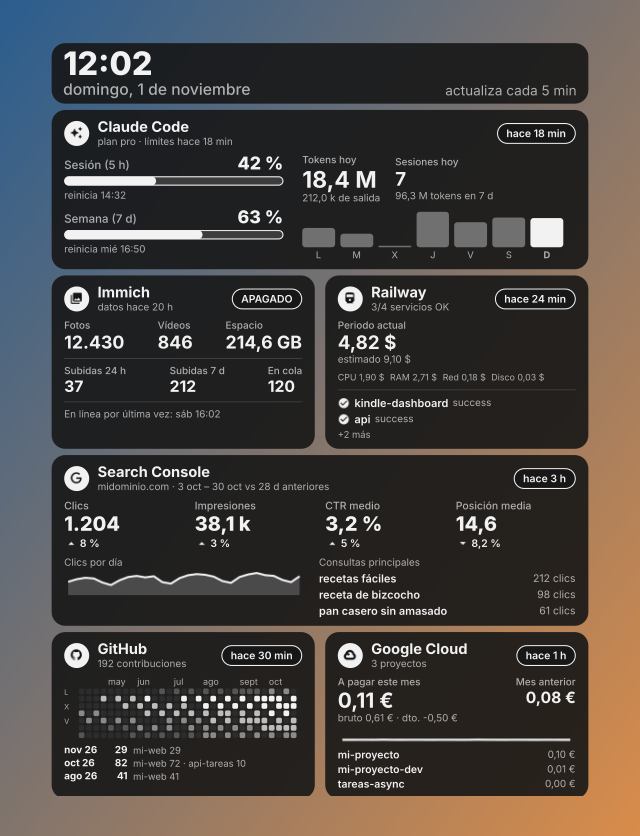
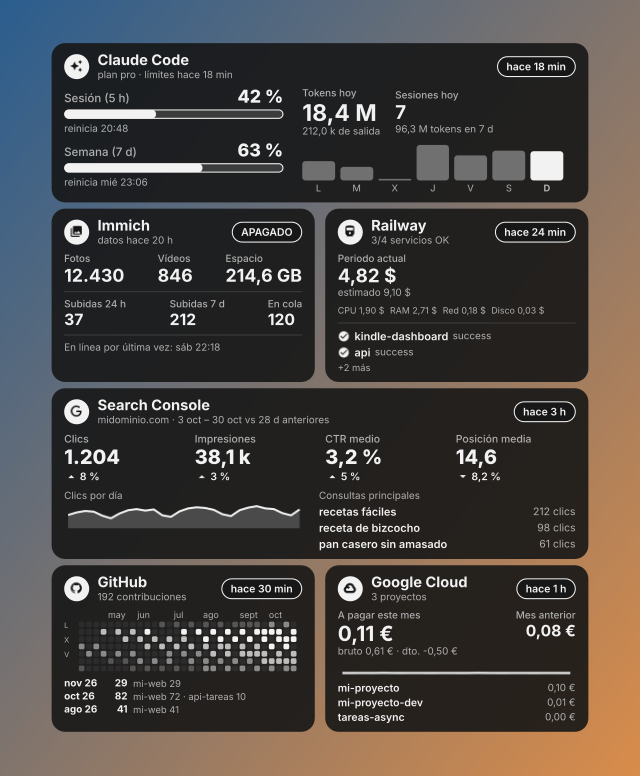
Agregar soporte para múltiples pantallas en el widget de escritorio y actualizar la documentación correspondiente

Changed region(s): [[0.0625, 0.0309, 0.9375, 0.9588], [0.3438, 0.1856, 0.4375, 0.2165]]

diff --git a/docs/widget.html b/docs/widget.html
@@ -68,9 +68,11 @@ blockquote { margin: 1em 0; padding: .2em 1em; border-left: 4px solid var(--acce
   </nav>
   <main><article>
 <h1 id="widget-de-escritorio">Widget de escritorio</h1>
-<p><code>GET /widget.png?key=DASH_KEY&amp;w=700&amp;theme=dark</code> dibuja el dashboard con <strong>fondo transparente</strong> al ancho pedido
-(240–2144 px; el alto sigue la proporción del Kindle), en tema <code>dark</code> (tarjetas oscuras, texto claro) o <code>light</code>
-(tarjetas blancas, texto negro, como el Kindle). Con <code>&amp;page=N</code> se elige la pantalla.</p>
+<p><code>GET /widget.png?key=DASH_KEY&amp;w=700&amp;theme=dark</code> dibuja las tarjetas del dashboard con <strong>fondo transparente</strong> al
+ancho pedido (240–2144 px), en tema <code>dark</code> (tarjetas oscuras, texto claro) o <code>light</code> (tarjetas blancas, texto
+negro, como el Kindle). Con <code>&amp;page=N</code> se elige la pantalla.</p>
+<p>El widget no lleva la cabecera de hora y fecha del Kindle (ya están en la barra de tareas) y su alto es el de las
+tarjetas, sin hueco abajo. Con <code>&amp;header=1</code> vuelve la cabecera y el alto sigue la proporción del Kindle.</p>
 <p><img src="capturas/widget.png" alt="Widget en tema oscuro sobre un fondo de escritorio"></p>
 <p>El skin de <code>Rainmeter/</code> lo descarga cada 5 minutos y lo pinta <strong>en el escritorio</strong>: encima del fondo de Windows y
 debajo de todas las ventanas. Un clic abre <code>/web</code>; el menú del botón derecho tiene «Abrir en el navegador» y
@@ -80,6 +82,14 @@ powershell -ExecutionPolicy Bypass -File Rainmeter\install.ps1 -Width 600 -Monit
 powershell -ExecutionPolicy Bypass -File Rainmeter\install.ps1 -Theme light                                # tema claro, como el Kindle
 </code></pre>
 <p>Sin <code>-ServerUrl</code>, el widget usa <code>http://localhost:3000</code>.</p>
+<h2 id="varias-pantallas-a-la-vez">Varias pantallas a la vez</h2>
+<p><code>-Page</code> elige la pantalla: <code>0</code> las métricas (por defecto) y <code>1</code> la red local. Rainmeter solo carga una piel por
+carpeta, así que cada pantalla se instala en su propia carpeta y se pueden ver juntas: la <code>0</code> en
+<code>Skins\KindleDashboard</code> y la <code>N</code> en <code>Skins\KindleDashboard-Pantalla&lt;N+1&gt;</code>.</p>
+<pre><code class="language-powershell">powershell -ExecutionPolicy Bypass -File Rainmeter\install.ps1 -ServerUrl https://TU-APP.up.railway.app -Page 0 -Align 1   # métricas, a la derecha
+powershell -ExecutionPolicy Bypass -File Rainmeter\install.ps1 -ServerUrl https://TU-APP.up.railway.app -Page 1 -Align 0   # red local, a la izquierda
+</code></pre>
+<p>Para quitar una, descárgala desde Rainmeter (clic derecho → <strong>Descargar skin</strong>) o borra su carpeta.</p>
 <p>El instalador copia el skin a <code>Documentos\Rainmeter\Skins\KindleDashboard</code>, crea <code>@Resources\Variables.inc</code> con la
 <code>DASH_KEY</code> del <code>.env</code> del repositorio (o la de <code>-Key</code>) y lo carga. <code>Variables.inc</code> no se sube a git. Para cambiar
 algo a mano, edita ese archivo (servidor, clave, ancho, tema, monitor, lado, margen, frecuencia) y refresca el

diff --git a/server/render/render.js b/server/render/render.js
@@ -51,12 +51,15 @@ const backHint = () =>
 
 export const isView = (v) => Object.hasOwn(DETAILS, v);
 
+// El widget sin cabecera (la hora ya está en Windows) no tiene alto fijo: ocupa lo que ocupen las tarjetas.
+const autoHeight = (opts) => opts.widget && !opts.header;
+
 function layout(state, opts) {
   const detail = isView(opts.view) && DETAILS[opts.view];
   return col(
     {
       width: WIDTH,
-      height: HEIGHT,
+      ...(autoHeight(opts) ? {} : { height: HEIGHT }),
       background: C.page,
       padding: opts.widget ? '6px 22px 8px' : detail ? '16px 22px 34px' : '16px 22px 20px',
       gap: 12,
@@ -64,9 +67,9 @@ function layout(state, opts) {
       fontFamily: 'Inter',
       color: C.ink,
     },
-    // En el widget la cabecera va en su propia tarjeta, para leerse sobre cualquier fondo de escritorio.
+    // En el widget la cabecera, si se pide, va en su propia tarjeta para leerse sobre cualquier fondo de escritorio.
     opts.widget
-      ? col({ background: C.card, borderRadius: 26, padding: '8px 14px 10px' }, header(opts))
+      ? opts.header && col({ background: C.card, borderRadius: 26, padding: '8px 14px 10px' }, header(opts))
       : header(opts, !detail && PAGE_COUNT > 1 && dots(opts.page)),
     detail ? detail(state[opts.view]) : PAGES[opts.page](state),
     detail && backHint(),
@@ -79,7 +82,7 @@ export const pageIndex = (n) => ((Math.trunc(Number(n) || 0) % PAGE_COUNT) + PAG
 const svgOf = (state, opts) =>
   satori(
     withTheme(opts.theme, () => layout(state, { now: new Date(), refreshMinutes: 5, ...opts, page: pageIndex(opts.page) })),
-    { width: WIDTH, height: HEIGHT, fonts },
+    autoHeight(opts) ? { width: WIDTH, fonts } : { width: WIDTH, height: HEIGHT, fonts },
   );
 
 // Para la página web: vectorial, se ve nítido a cualquier tamaño.
@@ -91,7 +94,8 @@ export async function renderPng(state, opts = {}) {
   return sharp(Buffer.from(svg)).flatten({ background: '#ffffff' }).toColourspace('b-w').png({ compressionLevel: 9 }).toBuffer();
 }
 
-// Widget de escritorio (Rainmeter): tema oscuro o claro, fondo transparente y el ancho pedido, con la misma proporción.
+// Widget de escritorio (Rainmeter): tema oscuro o claro, fondo transparente y el ancho pedido. Sin header, solo las
+// tarjetas y con su alto natural; con header: true, la cabecera de hora y fecha y la proporción del Kindle.
 export const WIDGET_WIDTH = { min: 240, max: 2144 };
 export const widgetTheme = (t) => (Object.hasOwn(THEMES, t) ? t : 'dark');
 export async function renderWidget(state, { width = WIDTH, theme, ...opts } = {}) {

diff --git a/server/index.js b/server/index.js
@@ -93,16 +93,17 @@ async function dashPng(url, res) {
   send(res, 200, cache.png, 'image/png', { 'X-View': opts.view || 'grid' });
 }
 
-// Widget de escritorio: ?w=ancho en píxeles (la altura sigue la proporción del Kindle), ?page=N y ?theme=dark|light.
+// Widget de escritorio: ?w=ancho en píxeles, ?page=N, ?theme=dark|light y ?header=1 para incluir la hora y la fecha.
 let widgetCache = { key: '', at: 0, png: null };
 async function widgetPng(url, res) {
   const w = Math.round(Number(url.searchParams.get('w')) || 560);
   const width = Math.min(WIDGET_WIDTH.max, Math.max(WIDGET_WIDTH.min, w));
   const page = pageIndex(url.searchParams.get('page'));
   const theme = widgetTheme(url.searchParams.get('theme'));
-  const key = `${width}|${page}|${theme}`;
+  const withHeader = url.searchParams.get('header') === '1';
+  const key = `${width}|${page}|${theme}|${withHeader}`;
   if (!widgetCache.png || widgetCache.key !== key || Date.now() - widgetCache.at > 30_000) {
-    widgetCache = { key, at: Date.now(), png: await renderWidget(getState(), { width, page, theme, refreshMinutes: config.refreshMinutes }) };
+    widgetCache = { key, at: Date.now(), png: await renderWidget(getState(), { width, page, theme, header: withHeader, refreshMinutes: config.refreshMinutes }) };
   }
   send(res, 200, widgetCache.png, 'image/png');
 }

diff --git a/server/preview.js b/server/preview.js
@@ -180,12 +180,12 @@ for (const view of Object.keys(DETAILS)) {
   console.log(`out/detail-${view}.png`);
 }
 
-// Widget de escritorio en los dos temas, sobre un degradado de colores para ver la transparencia.
-for (const theme of ['dark', 'light']) {
-  const widget = await renderWidget(state, { width: 560, theme });
+// Widget de escritorio, sobre un degradado de colores para ver la transparencia: métricas en los dos temas y la red.
+for (const [theme, page] of [['dark', 0], ['light', 0], ['dark', 1]]) {
+  const widget = await renderWidget(state, { width: 560, theme, page });
   const { width: ww, height: wh } = await sharp(widget).metadata();
   const wallpaper = `<svg xmlns="http://www.w3.org/2000/svg" width="${ww + 80}" height="${wh + 80}"><defs><linearGradient id="g" x1="0" y1="0" x2="1" y2="1"><stop offset="0" stop-color="#2a5d8f"/><stop offset="1" stop-color="#d98c4a"/></linearGradient></defs><rect width="100%" height="100%" fill="url(#g)"/></svg>`;
-  const file = theme === 'dark' ? 'out/widget.png' : `out/widget-${theme}.png`;
+  const file = page ? `out/widget-${page + 1}.png` : theme === 'dark' ? 'out/widget.png' : `out/widget-${theme}.png`;
   await sharp(Buffer.from(wallpaper)).composite([{ input: widget, left: 40, top: 40 }]).png().toFile(file);
   console.log(`${file} (${ww}×${wh})`);
 }

diff --git a/docs/widget.md b/docs/widget.md
@@ -1,8 +1,11 @@
 # Widget de escritorio
 
-`GET /widget.png?key=DASH_KEY&w=700&theme=dark` dibuja el dashboard con **fondo transparente** al ancho pedido
-(240–2144 px; el alto sigue la proporción del Kindle), en tema `dark` (tarjetas oscuras, texto claro) o `light`
-(tarjetas blancas, texto negro, como el Kindle). Con `&page=N` se elige la pantalla.
+`GET /widget.png?key=DASH_KEY&w=700&theme=dark` dibuja las tarjetas del dashboard con **fondo transparente** al
+ancho pedido (240–2144 px), en tema `dark` (tarjetas oscuras, texto claro) o `light` (tarjetas blancas, texto
+negro, como el Kindle). Con `&page=N` se elige la pantalla.
+
+El widget no lleva la cabecera de hora y fecha del Kindle (ya están en la barra de tareas) y su alto es el de las
+tarjetas, sin hueco abajo. Con `&header=1` vuelve la cabecera y el alto sigue la proporción del Kindle.
 
 ![Widget en tema oscuro sobre un fondo de escritorio](capturas/widget.png)
 
@@ -17,6 +20,19 @@ powershell -ExecutionPolicy Bypass -File Rainmeter\install.ps1 -Theme light     
 ```
 
 Sin `-ServerUrl`, el widget usa `http://localhost:3000`.
+
+## Varias pantallas a la vez
+
+`-Page` elige la pantalla: `0` las métricas (por defecto) y `1` la red local. Rainmeter solo carga una piel por
+carpeta, así que cada pantalla se instala en su propia carpeta y se pueden ver juntas: la `0` en
+`Skins\KindleDashboard` y la `N` en `Skins\KindleDashboard-Pantalla<N+1>`.
+
+```powershell
+powershell -ExecutionPolicy Bypass -File Rainmeter\install.ps1 -ServerUrl https://TU-APP.up.railway.app -Page 0 -Align 1   # métricas, a la derecha
+powershell -ExecutionPolicy Bypass -File Rainmeter\install.ps1 -ServerUrl https://TU-APP.up.railway.app -Page 1 -Align 0   # red local, a la izquierda
+```
+
+Para quitar una, descárgala desde Rainmeter (clic derecho → **Descargar skin**) o borra su carpeta.
 
 El instalador copia el skin a `Documentos\Rainmeter\Skins\KindleDashboard`, crea `@Resources\Variables.inc` con la
 `DASH_KEY` del `.env` del repositorio (o la de `-Key`) y lo carga. `Variables.inc` no se sube a git. Para cambiar
